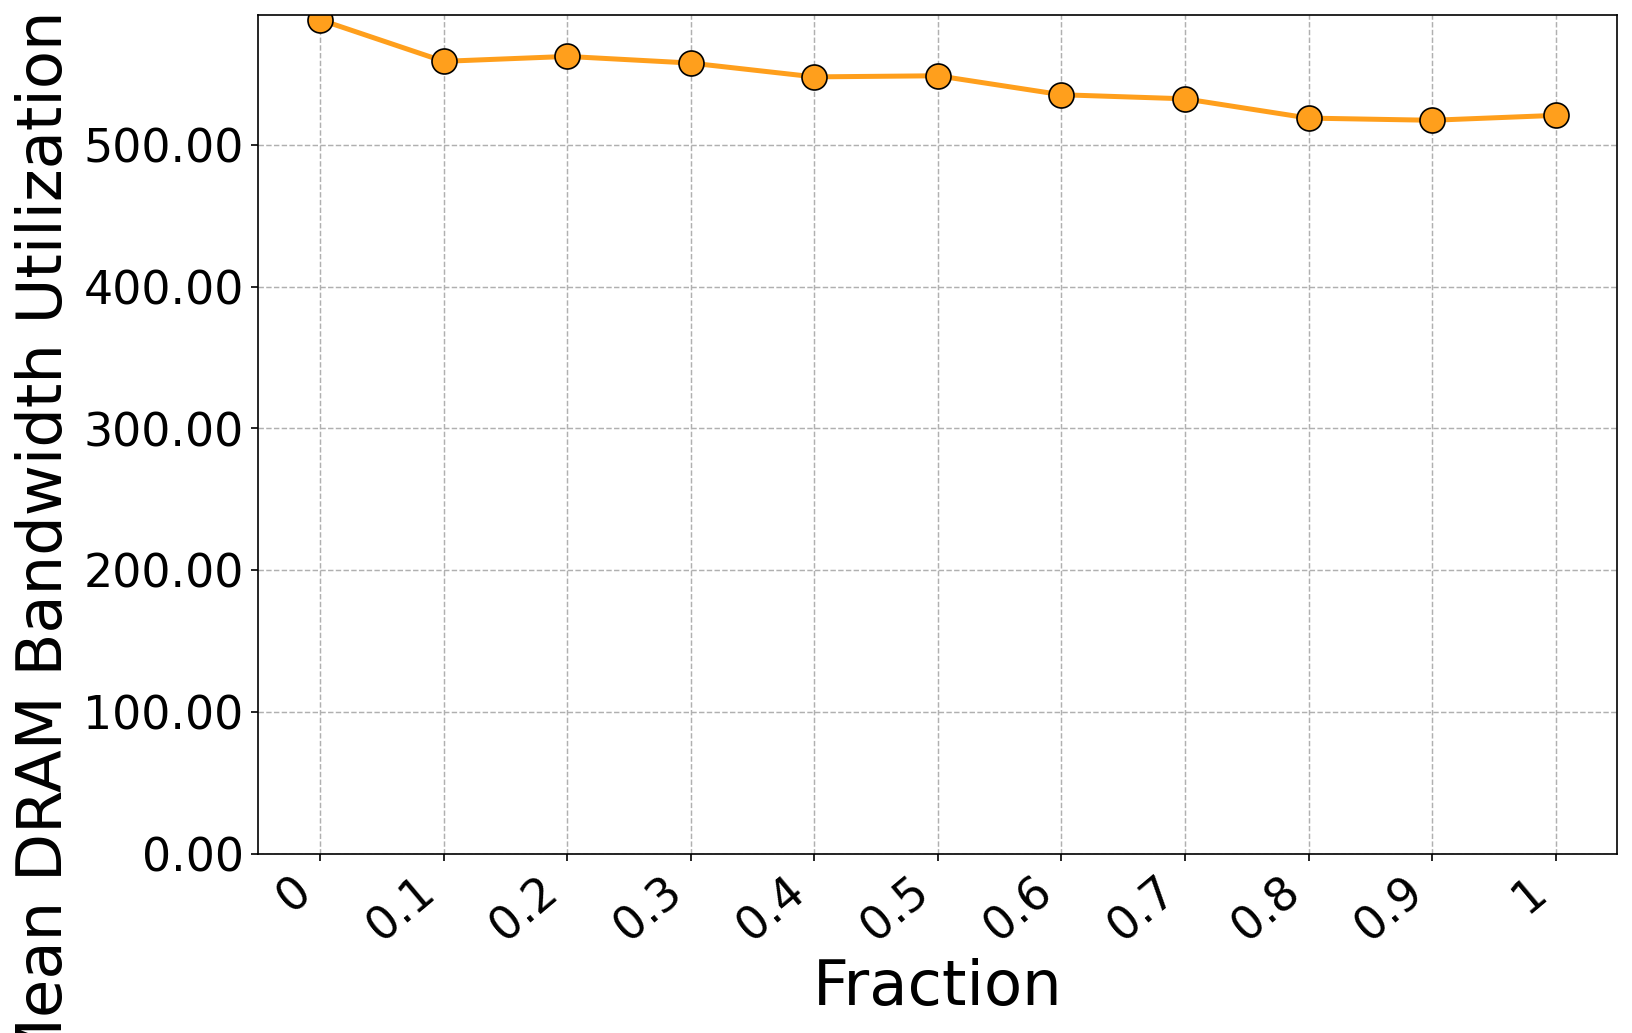
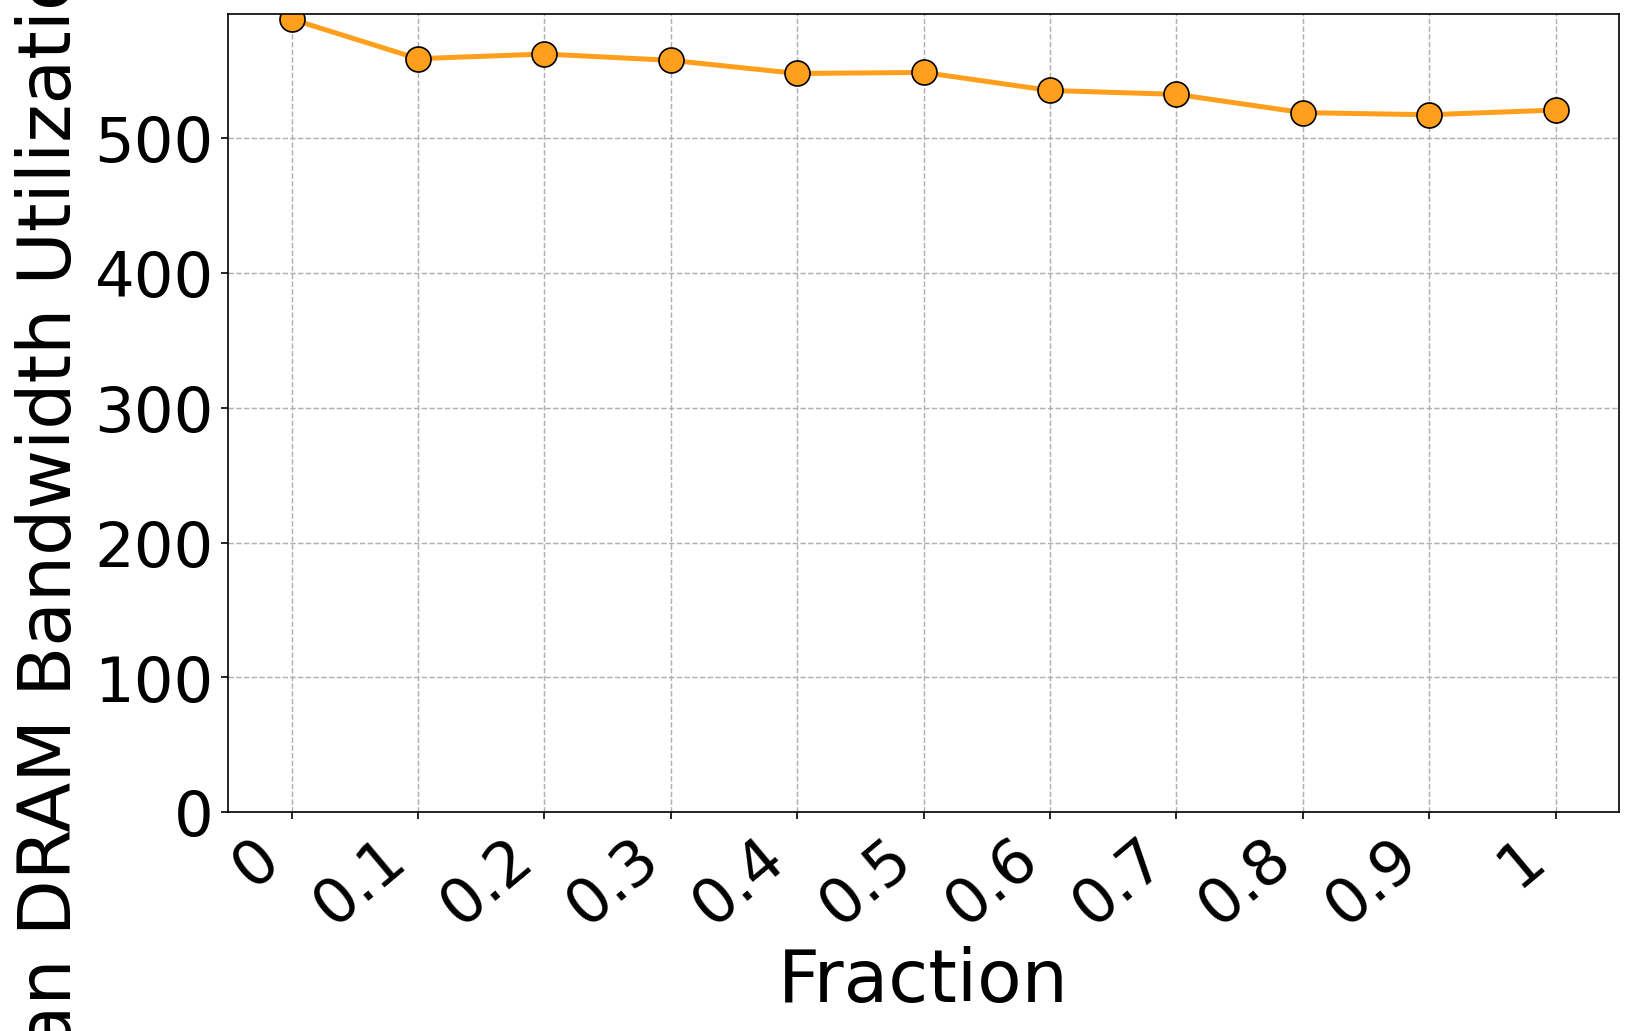
pref

diff --git a/code/vllm/fractional_sharing_logs/plot.py b/code/vllm/fractional_sharing_logs/plot.py
@@ -160,12 +160,12 @@ def plot_single(
     ax.plot(xs, ys, marker=MARKER, linestyle="-", linewidth=LINEWIDTH,
             markersize=MARKERSIZE, markeredgecolor="black",
             markeredgewidth=0.8, color=color)
-    ax.set_xlabel("Fraction", fontsize=30)
-    ax.set_ylabel(ylabel, fontsize=30)
-    ax.tick_params(axis="both", labelsize=22)
+    ax.set_xlabel("Fraction", fontsize=35)
+    ax.set_ylabel(ylabel, fontsize=35)
+    ax.tick_params(axis="both", labelsize=30)
     ax.set_xticks(xs)
     ax.set_xticklabels([fmt(v) for v in frac_labels], rotation=40, ha="right")
-    ax.yaxis.set_major_formatter(ticker.FormatStrFormatter("%.2f"))
+    ax.yaxis.set_major_formatter(ticker.FormatStrFormatter("%.0f"))
     ax.grid(True, linewidth=0.7, linestyle="--")
     ax.set_ylim(bottom=0)
     ax.set_xlim(-0.5, len(xs) - 0.5)
@@ -189,7 +189,7 @@ def main():
 
     plot_single(
         fracs, tps,
-        ylabel  = "Throughput (tok/s)",
+        ylabel  = "TP (tok/s)",
         outpath = os.path.join(OUT_DIR, "throughput_vs_fraction.png"),
         color   = "#3A86FF",
     )
